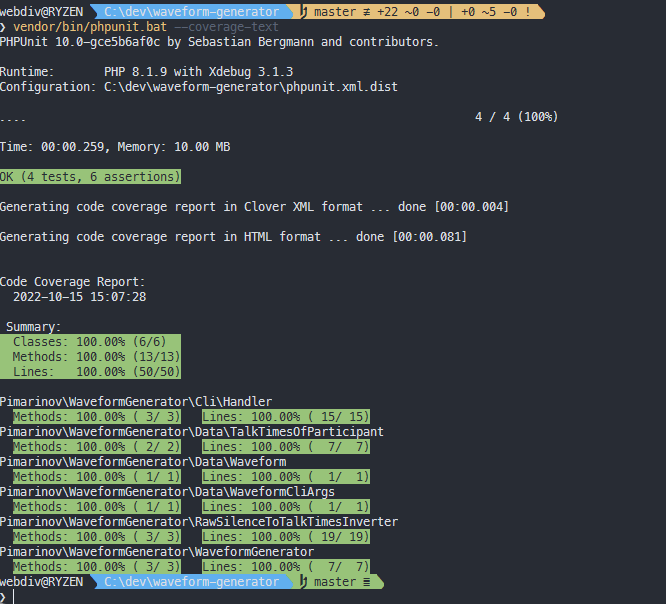
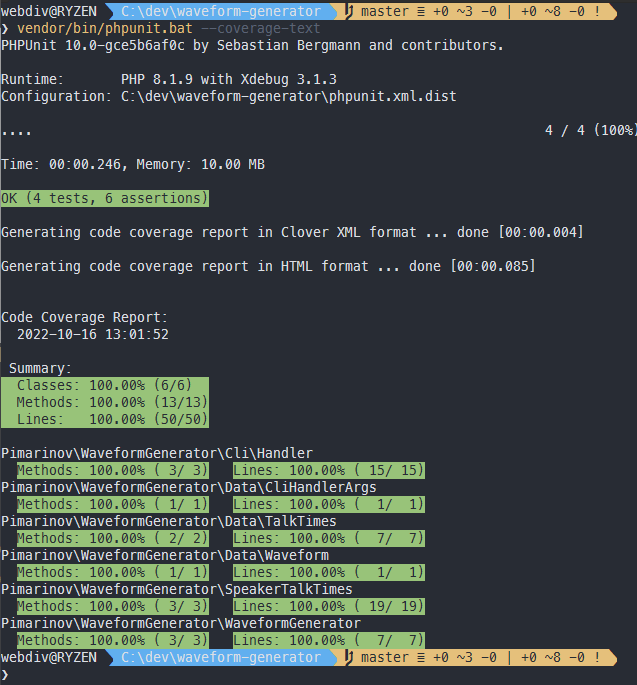
small refactoring for polishing

diff --git a/src/Cli/Handler.php b/src/Cli/Handler.php
@@ -3,40 +3,41 @@ declare(strict_types = 1);
 
 namespace Pimarinov\WaveformGenerator\Cli;
 
-use Pimarinov\WaveformGenerator\Data\WaveformCliArgs;
+use Pimarinov\WaveformGenerator\Data\CliHandlerArgs;
 use Pimarinov\WaveformGenerator\Data\Waveform;
-use Pimarinov\WaveformGenerator\RawSilenceToTalkTimesInverter;
+use Pimarinov\WaveformGenerator\SpeakerTalkTimes;
 use Pimarinov\WaveformGenerator\WaveformGenerator;
 
 class Handler
 {
 
-    public function __construct(private WaveformCliArgs $args)
+    public function __construct(private CliHandlerArgs $args)
     {
 
     }
 
     public function execute(): Waveform
     {
-        list($userRaw, $customerRaw) = $this->getRawFromFiles();
+        list($userSilenceRaw, $customerSilenceRaw) = $this->getSilenceRawFromFiles();
 
-        $userConverter = new RawSilenceToTalkTimesInverter($userRaw);
-        $user = $userConverter->collect();
+        $userTalkTimes = (new SpeakerTalkTimes($userSilenceRaw))
+            ->getTalkTimes();
 
-        $customerConverter = new RawSilenceToTalkTimesInverter($customerRaw);
-        $customer = $customerConverter->collect();
+        $customerTalkTimes = (new SpeakerTalkTimes($customerSilenceRaw))
+            ->getTalkTimes();
 
-        $generator = new WaveformGenerator($user, $customer);
+        $generator = new WaveformGenerator($userTalkTimes, $customerTalkTimes);
 
-        return $generator->generate();
+        return $generator->getWaveform();
     }
 
-    private function getRawFromFiles(): array
+    private function getSilenceRawFromFiles(): array
     {
         if (!file_exists($this->args->user))
         {
             throw new \Exception('FILE ERROR (user): No such file.');
         }
+
         if (!file_exists($this->args->customer))
         {
             throw new \Exception('FILE ERROR (customer): No such file.');

diff --git a/tests/Unit/WaveformGeneratorCliHandlerTest.php b/tests/Unit/WaveformGeneratorCliHandlerTest.php
@@ -6,7 +6,7 @@ namespace Pimarinov\WaveformGenerator\Test\Unit;
 
 use Pimarinov\WaveformGenerator\Cli\Handler;
 use Pimarinov\WaveformGenerator\Data\Waveform;
-use Pimarinov\WaveformGenerator\Data\WaveformCliArgs;
+use Pimarinov\WaveformGenerator\Data\CliHandlerArgs;
 use PHPUnit\Framework\TestCase;
 
 class WaveformGeneratorCliHandlerTest extends TestCase
@@ -17,7 +17,7 @@ class WaveformGeneratorCliHandlerTest extends TestCase
         $userFile = __DIR__ . '/../dummy-raw-silence/user.dummy-raw-silence.txt';
         $customerFile = __DIR__ . '/../dummy-raw-silence/customer.dummy-raw-silence.txt';
 
-        $args = new WaveformCliArgs($userFile, $customerFile);
+        $args = new CliHandlerArgs($userFile, $customerFile);
 
         $handler = new Handler($args);
 
@@ -32,7 +32,7 @@ class WaveformGeneratorCliHandlerTest extends TestCase
         $userFile = __DIR__ . 'missing.txt';
         $customerFile = __DIR__ . '/../dummy-raw-silence/customer.dummy-raw-silence.txt';
 
-        $args = new WaveformCliArgs($userFile, $customerFile);
+        $args = new CliHandlerArgs($userFile, $customerFile);
 
         $handler = new Handler($args);
 
@@ -47,7 +47,7 @@ class WaveformGeneratorCliHandlerTest extends TestCase
         $userFile = __DIR__ . '/../dummy-raw-silence/user.dummy-raw-silence.txt';
         $customerFile = __DIR__ . 'missing.txt';
 
-        $args = new WaveformCliArgs($userFile, $customerFile);
+        $args = new CliHandlerArgs($userFile, $customerFile);
 
         $handler = new Handler($args);
 

diff --git a/tests/Unit/WeveformGeneratorTest.php b/tests/Unit/WeveformGeneratorTest.php
@@ -6,7 +6,7 @@ namespace Pimarinov\WaveformGenerator\Test\Unit;
 
 use Pimarinov\WaveformGenerator\Data\Waveform;
 use Pimarinov\WaveformGenerator\WaveformGenerator;
-use Pimarinov\WaveformGenerator\RawSilenceToTalkTimesInverter;
+use Pimarinov\WaveformGenerator\SpeakerTalkTimes;
 use PHPUnit\Framework\TestCase;
 
 class WeveformGeneratorTest extends TestCase
@@ -20,15 +20,15 @@ class WeveformGeneratorTest extends TestCase
         $userRaw = file_get_contents($userFile);
         $customerRaw = file_get_contents($customerFile);
 
-        $userTalkTimes = (new RawSilenceToTalkTimesInverter($userRaw))
-            ->collect();
+        $userTalkTimes = (new SpeakerTalkTimes($userRaw))
+            ->getTalkTimes();
         
-        $customerTalkTimes = (new RawSilenceToTalkTimesInverter($customerRaw))
-            ->collect();
+        $customerTalkTimes = (new SpeakerTalkTimes($customerRaw))
+            ->getTalkTimes();
 
         $generator = new WaveformGenerator($userTalkTimes, $customerTalkTimes);
 
-        $result = $generator->generate();
+        $result = $generator->getWaveform();
 
         $this->assertInstanceOf(Waveform::class, $result);
     }

diff --git a/src/SpeakerTalkTimes.php b/src/SpeakerTalkTimes.php
@@ -3,9 +3,9 @@ declare(strict_types = 1);
 
 namespace Pimarinov\WaveformGenerator;
 
-use Pimarinov\WaveformGenerator\Data\TalkTimesOfParticipant;
+use Pimarinov\WaveformGenerator\Data\TalkTimes;
 
-class RawSilenceToTalkTimesInverter
+class SpeakerTalkTimes
 {
 
     public function __construct(private string $raw)
@@ -13,18 +13,18 @@ class RawSilenceToTalkTimesInverter
 
     }
 
-    public function collect(): TalkTimesOfParticipant
+    public function getTalkTimes(): TalkTimes
     {
-        $collection = new TalkTimesOfParticipant();
+        $talkTimes = new TalkTimes();
 
         foreach ($this->getPeriods() as $period)
         {
             list($start, $end) = $period;
 
-            $collection->addTimeBySilance($start, $end);
+            $talkTimes->addTimeBySilance($start, $end);
         }
 
-        return $collection;
+        return $talkTimes;
     }
 
     private function getPeriods(): array

diff --git a/src/WaveformGenerator.php b/src/WaveformGenerator.php
@@ -3,20 +3,20 @@ declare(strict_types = 1);
 
 namespace Pimarinov\WaveformGenerator;
 
-use Pimarinov\WaveformGenerator\Data\TalkTimesOfParticipant;
+use Pimarinov\WaveformGenerator\Data\TalkTimes;
 use Pimarinov\WaveformGenerator\Data\Waveform;
 
 class WaveformGenerator
 {
 
     public function __construct(
-        private TalkTimesOfParticipant $user, private TalkTimesOfParticipant $customer
+        private TalkTimes $user, private TalkTimes $customer
     )
     {
 
     }
 
-    public function generate(): Waveform
+    public function getWaveform(): Waveform
     {
         return new Waveform(
             $this->user->longest, $this->customer->longest,

diff --git a/bin/waveform.php b/bin/waveform.php
@@ -34,7 +34,7 @@ use Pimarinov\WaveformGenerator\Cli\Handler;
             throw new Exception('The customer parameter is mandatory.');
         }
 
-        $args = (new Pimarinov\WaveformGenerator\Data\WaveformCliArgs(
+        $args = (new Pimarinov\WaveformGenerator\Data\CliHandlerArgs(
                 $opts['user'], $opts['customer']
         ));
 

diff --git a/src/Data/TalkTimes.php b/src/Data/TalkTimes.php
@@ -3,7 +3,7 @@ declare(strict_types = 1);
 
 namespace Pimarinov\WaveformGenerator\Data;
 
-class TalkTimesOfParticipant
+class TalkTimes
 {
     public array $times = [];
     public float $total = 0;

diff --git a/src/Data/CliHandlerArgs.php b/src/Data/CliHandlerArgs.php
@@ -2,7 +2,7 @@
 
 namespace Pimarinov\WaveformGenerator\Data;
 
-class WaveformCliArgs
+class CliHandlerArgs
 {
 
     public function __construct(
